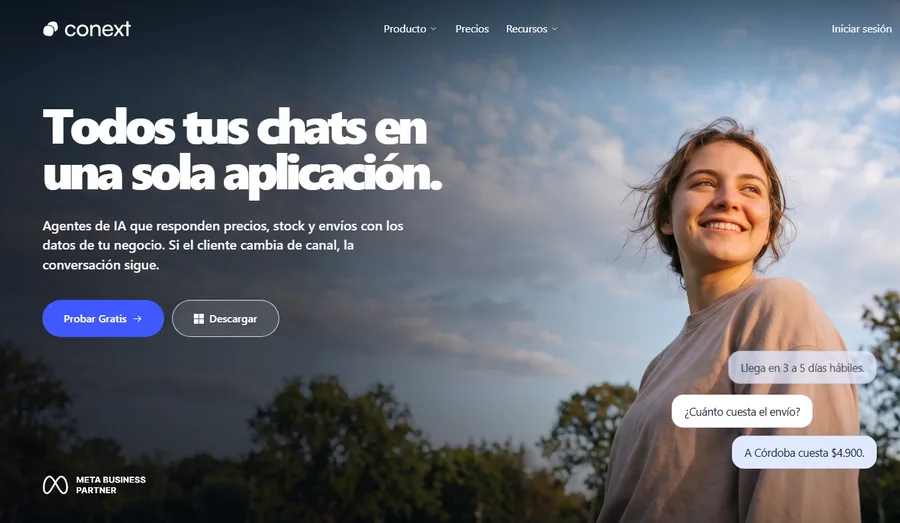
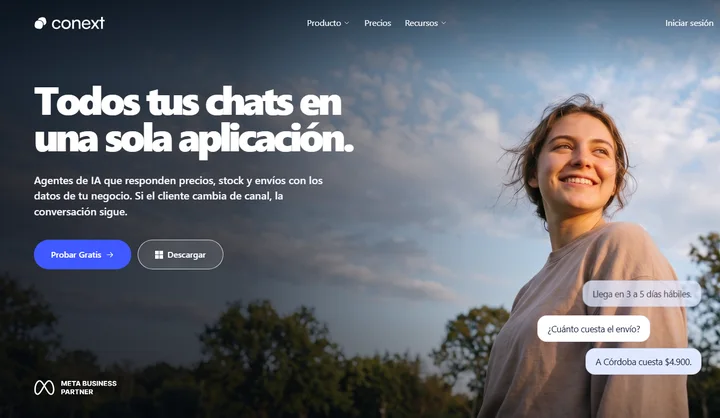
style: smaller, quieter start page cards showing each app's real page

diff --git a/src/BeautyKit/StartPage.cs b/src/BeautyKit/StartPage.cs
@@ -143,22 +143,22 @@ public static class StartPage
           h1 { margin: 44px 0 0; font-size: 29px; line-height: 1.3; font-weight: 600; letter-spacing: -.015em; text-align: center; }
 
           /* The app cards rise from the bottom edge, tilted, and lift under the pointer. */
-          .showcase { position: fixed; left: 50%; bottom: 0; width: min(920px, 100vw); height: 300px; transform: translateX(-50%); pointer-events: none; }
+          .showcase { position: fixed; left: 50%; bottom: 0; width: min(720px, 94vw); height: 200px; transform: translateX(-50%); pointer-events: none; }
           .card {
-            position: absolute; display: block; padding: 9px; background: #fff; border-radius: 22px; pointer-events: auto;
-            box-shadow: 0 0 0 1px rgba(0, 0, 0, .05), 0 18px 50px rgba(20, 20, 35, .16);
+            position: absolute; display: block; padding: 5px; background: #fff; border-radius: 13px; pointer-events: auto;
+            box-shadow: 0 0 0 1px rgba(0, 0, 0, .05), 0 10px 28px rgba(20, 20, 35, .11);
             transition: transform .45s cubic-bezier(.2, .8, .2, 1), box-shadow .45s;
             animation: rise .9s cubic-bezier(.2, .8, .2, 1) both;
           }
-          .card img { display: block; width: 100%; border-radius: 14px; }
-          .card:hover { box-shadow: 0 0 0 1px rgba(0, 0, 0, .05), 0 26px 60px rgba(20, 20, 35, .22); }
-          .c0 { left: 2%; width: 34%; top: 128px; transform: rotate(-9deg); animation-delay: .2s; }
-          .c0:hover { transform: translateY(-16px) rotate(-9deg); }
-          .c1 { left: 31%; width: 38%; top: 72px; transform: rotate(-4deg); z-index: 2; padding: 16px 12px 12px; border-radius: 26px; animation-delay: .1s; }
-          .c1::before { content: ""; position: absolute; top: 5px; left: 50%; width: 6px; height: 6px; margin-left: -3px; border-radius: 50%; background: #1d1d20; }
-          .c1:hover { transform: translateY(-16px) rotate(-4deg); }
-          .c2 { right: 2%; width: 34%; top: 118px; transform: rotate(11deg); animation-delay: .3s; }
-          .c2:hover { transform: translateY(-16px) rotate(11deg); }
+          .card img { display: block; width: 100%; border-radius: 9px; }
+          .card:hover { box-shadow: 0 0 0 1px rgba(0, 0, 0, .05), 0 16px 36px rgba(20, 20, 35, .16); }
+          .c0 { left: 5%; width: 30%; top: 92px; transform: rotate(-7deg); animation-delay: .2s; }
+          .c0:hover { transform: translateY(-10px) rotate(-7deg); }
+          .c1 { left: 34%; width: 32%; top: 62px; transform: rotate(-2deg); z-index: 2; padding: 10px 6px 6px; border-radius: 15px; animation-delay: .1s; }
+          .c1::before { content: ""; position: absolute; top: 3px; left: 50%; width: 4px; height: 4px; margin-left: -2px; border-radius: 50%; background: #1d1d20; }
+          .c1:hover { transform: translateY(-10px) rotate(-2deg); }
+          .c2 { right: 5%; width: 30%; top: 86px; transform: rotate(8deg); animation-delay: .3s; }
+          .c2:hover { transform: translateY(-10px) rotate(8deg); }
           @keyframes rise { from { opacity: 0; translate: 0 90px; } to { opacity: 1; translate: 0 0; } }
           @media (max-height: 660px) { .showcase { display: none; } main { margin-top: 0; } }
 
